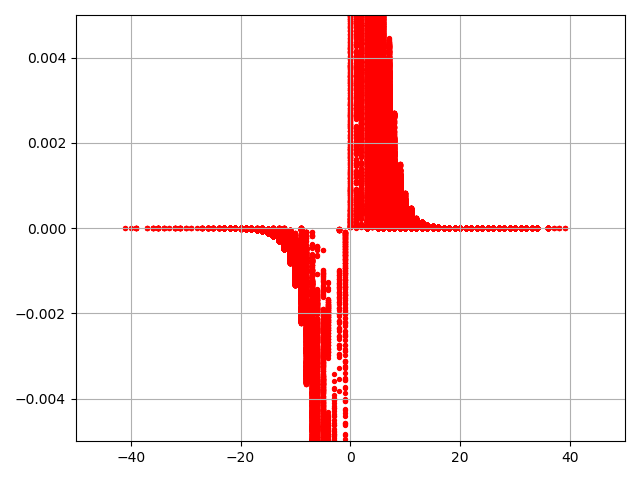
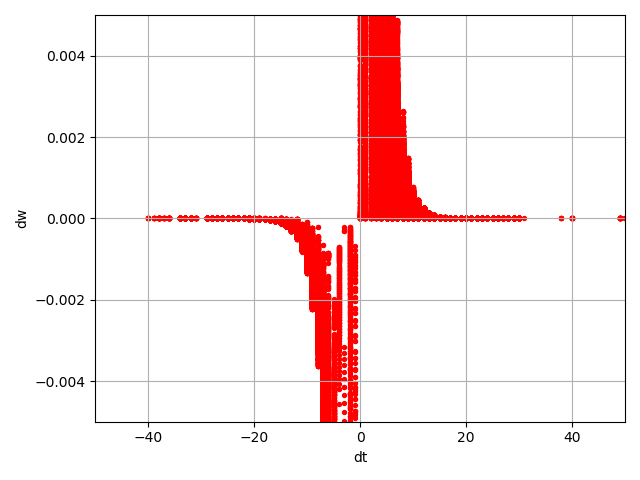
*fixed STDP plot

diff --git a/lab4.py b/lab4.py
@@ -106,6 +106,6 @@ if __name__ == "__main__":
     # print(convert_MNIST_image_to_spikes_in_time(train_X[0], 10))
 
     #simulation1()
-    simulation2(train_X, train_y, test_X, test_y)
-    #simulation3(train_X, train_y, test_X, test_y)
+    #simulation2(train_X, train_y, test_X, test_y)
+    simulation3(train_X, train_y, test_X, test_y)
 

diff --git a/snn.py b/snn.py
@@ -181,6 +181,8 @@ class SNN:
         plt.scatter(dt, dw, s=8, c="red")
         plt.xlim(-50, 50)
         plt.ylim(-0.005, 0.005)
+        plt.xlabel('dt')
+        plt.ylabel('dw')
         plt.grid()
         plt.show()
 
